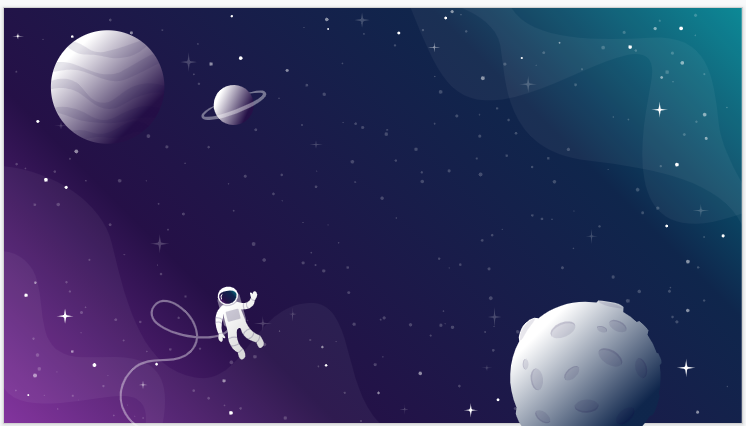
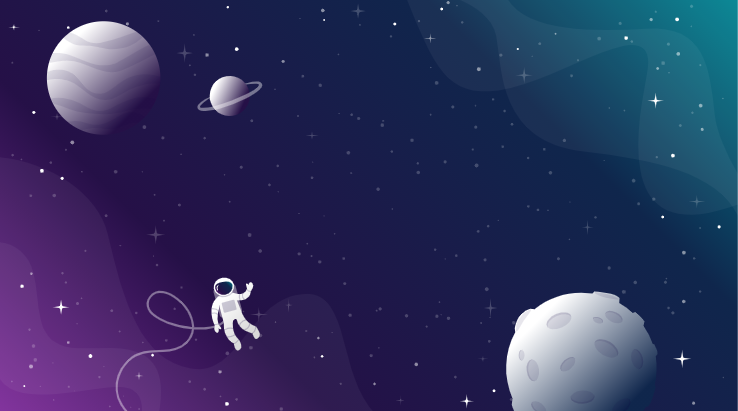
ubah background

diff --git a/src/App.css b/src/App.css
@@ -4,7 +4,7 @@
 
 .home {
   background-image: url(./components/img/sampul3.png);
-  background-size: auto;
+  background-size: cover;
 }
 
 #listdata {
